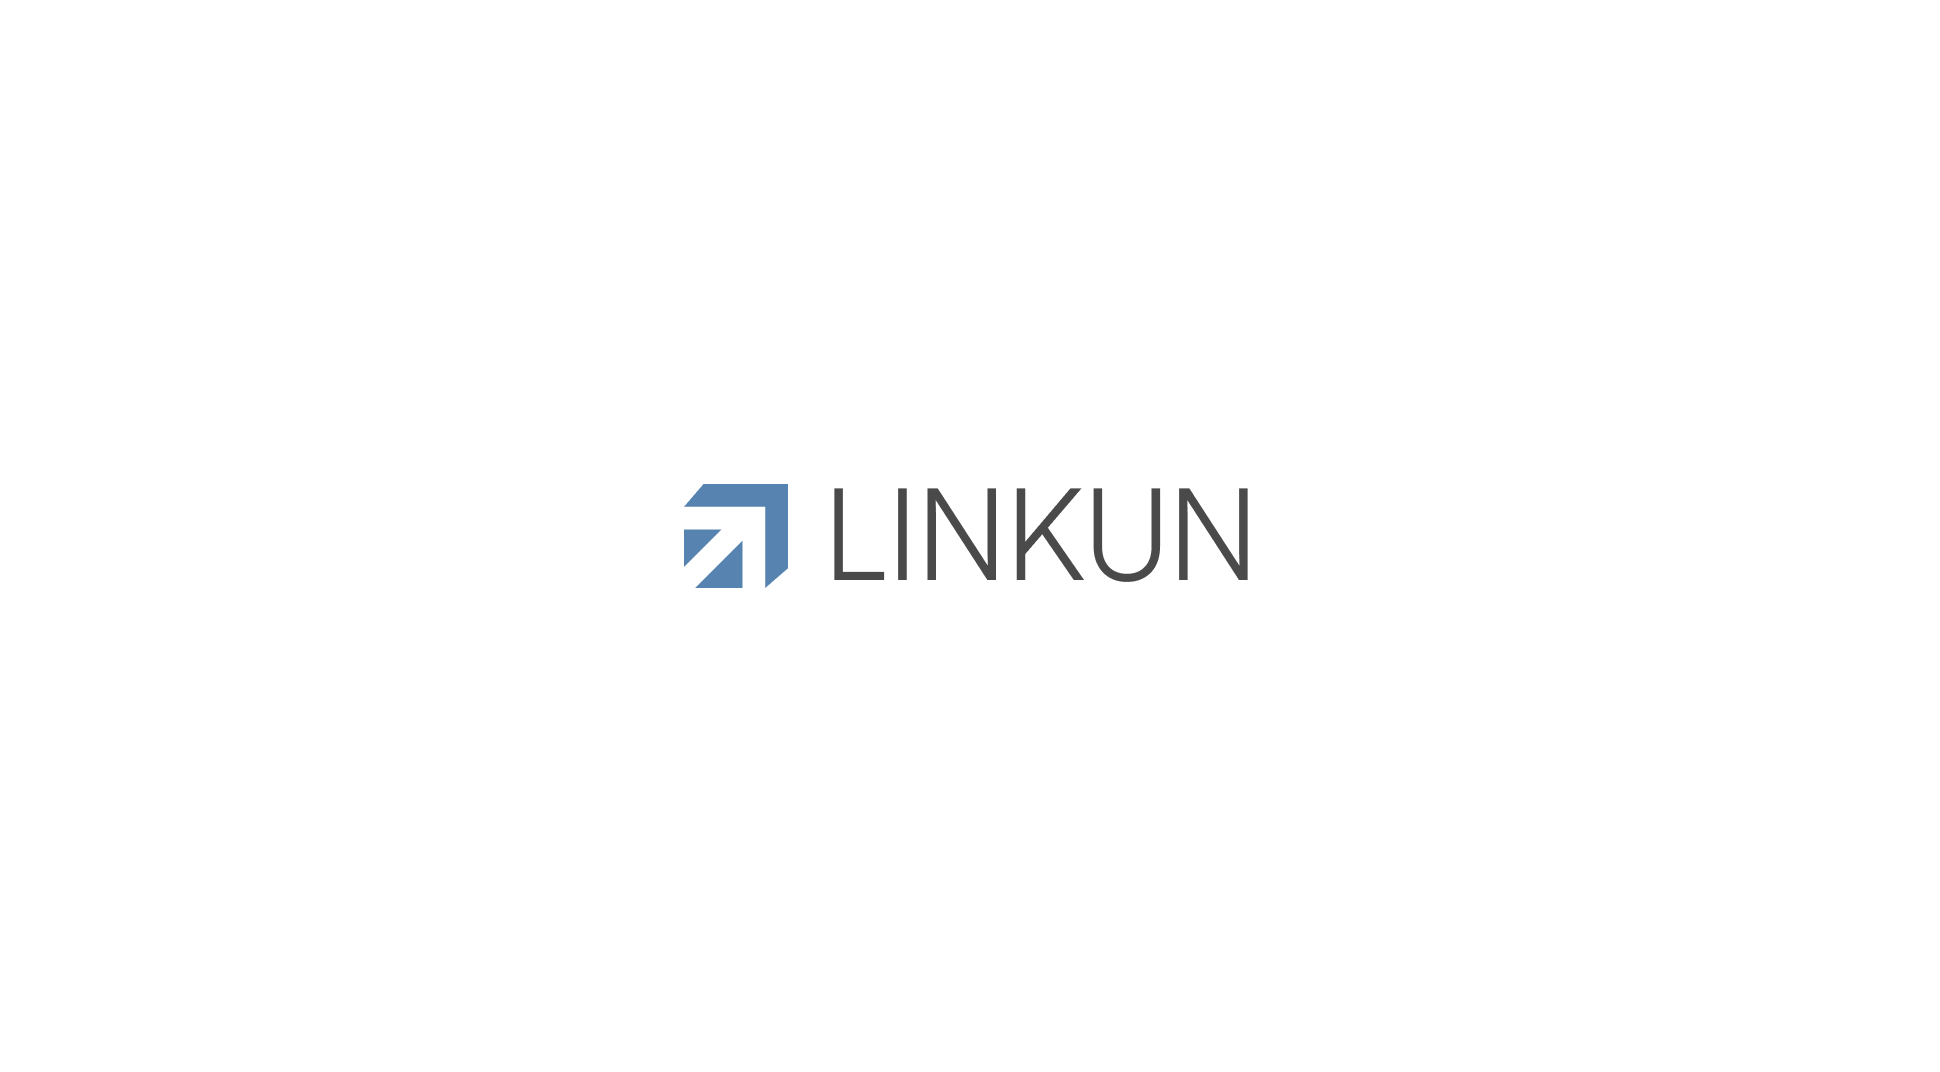
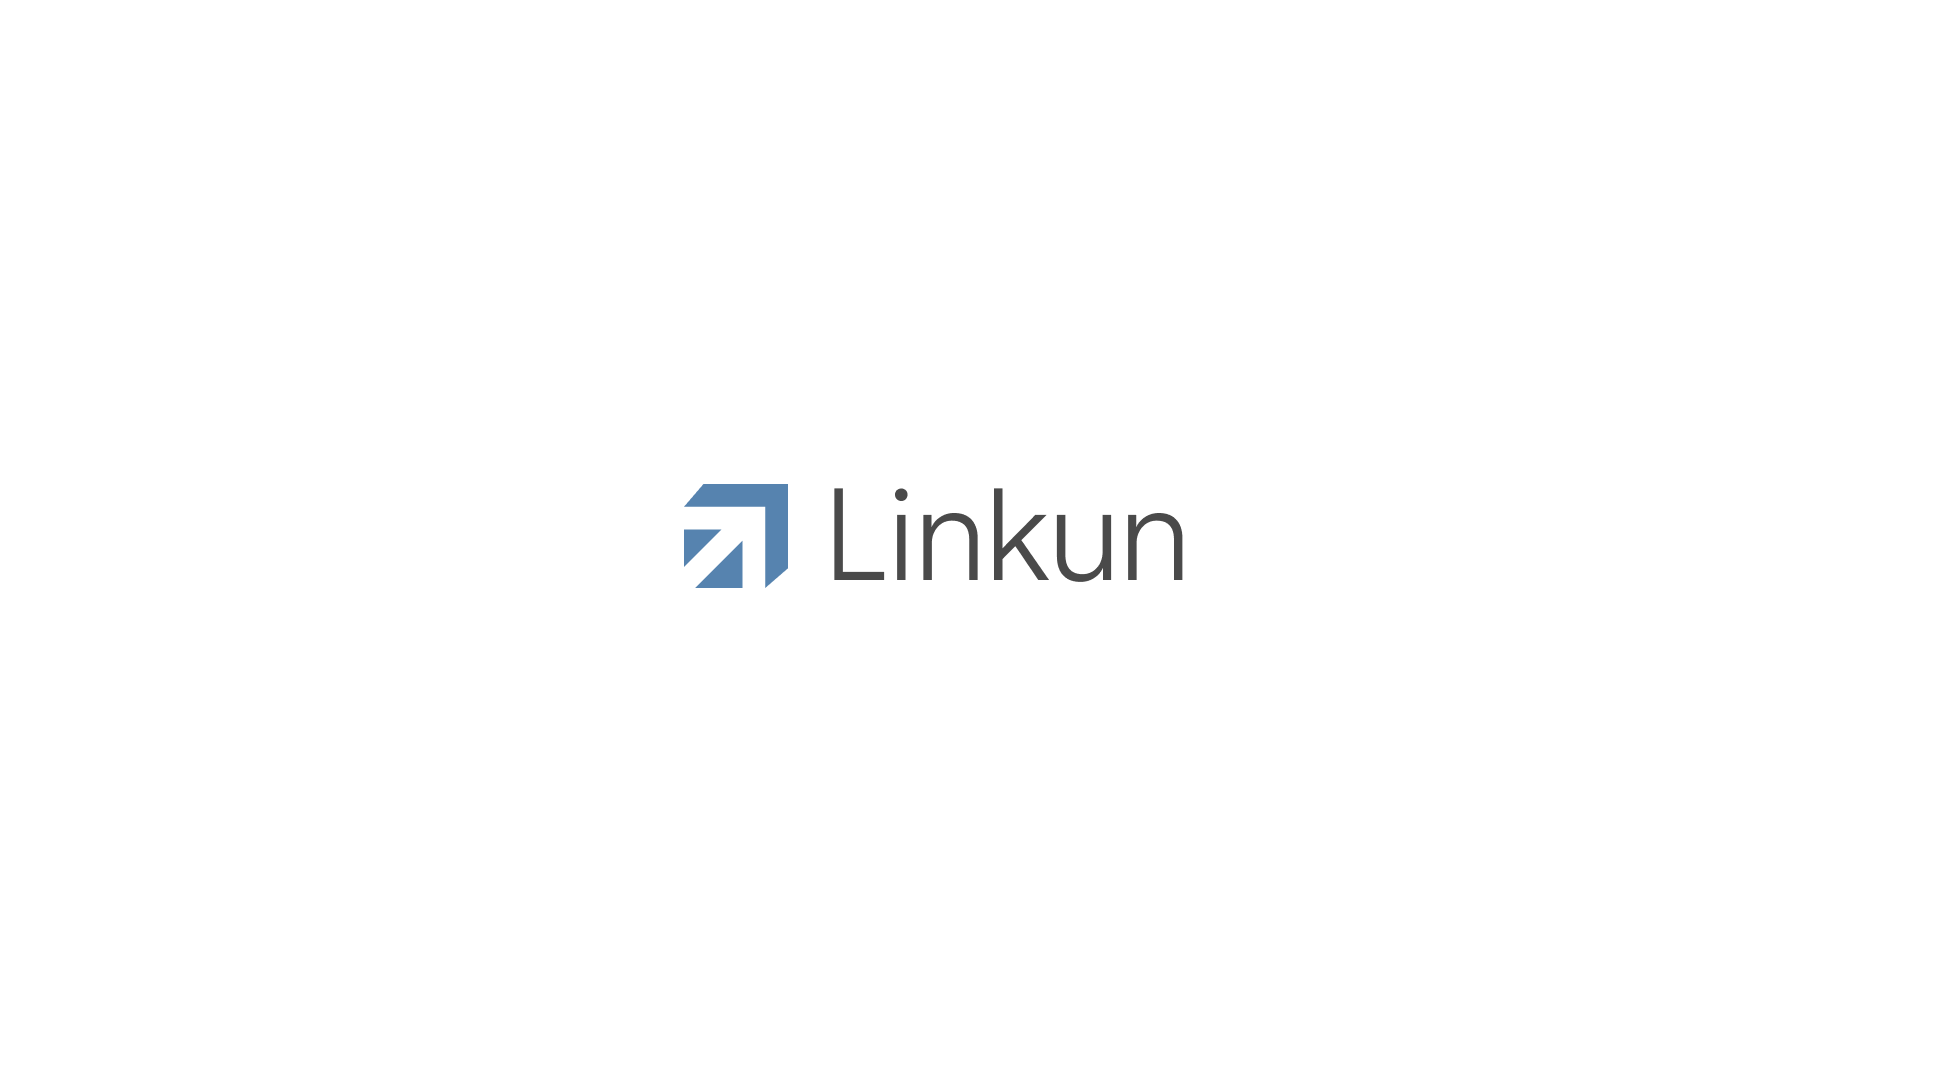
fixed url on readme

Changed region(s): [[0.4639, 0.4618, 0.6495, 0.5541]]

diff --git a/README.md b/README.md
@@ -26,9 +26,10 @@ Python · FAISS
 
 
 
-• **LinkVault** *(Launching Soon)*  
+• **Linkun**   
 Social bookmarking platform to save, organize, and share links in public or private collections.  
-Next.js · Prisma · PostgreSQL · Tailwind
+Next.js · Supabase · Prisma · PostgreSQL · Tailwind
+[Visit Site](https://linkun.vercel.app)
 
 • [see all projects](https://github.com/swayam-rajput?tab=repositories)
 